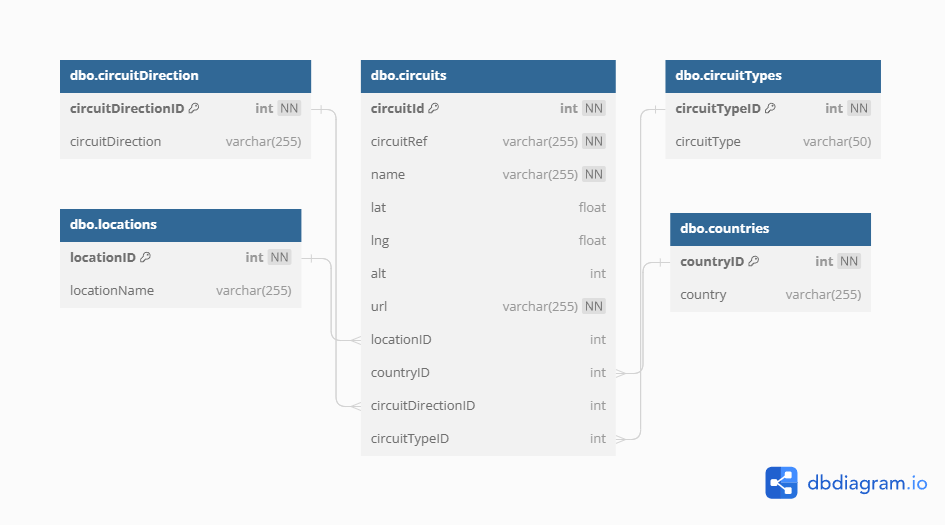
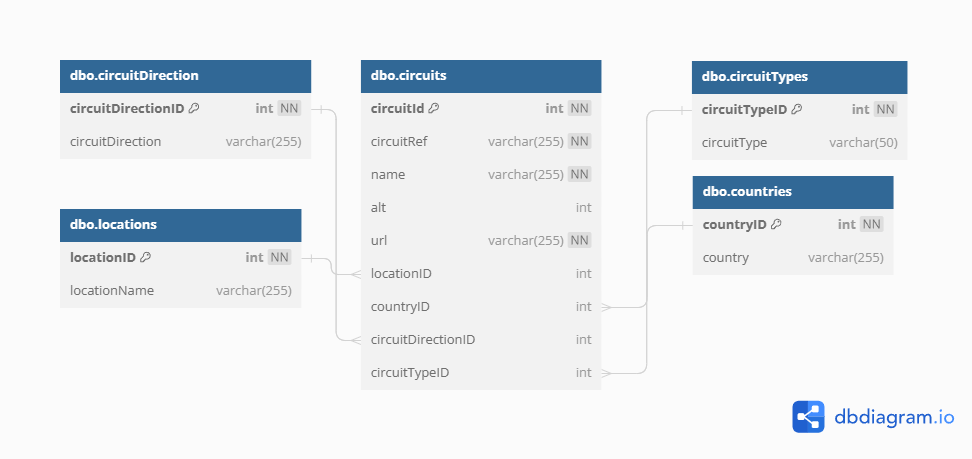
Circuits & Circuit Map amended

diff --git a/docs/tables/circuits.md b/docs/tables/circuits.md
@@ -11,14 +11,12 @@ title: Circuits
 | **circuitId** |  Primary Key | INT | ☐ |  |  | 
 | **circuitRef** |  | VARCHAR(255) | ☐ |  | Unique circuit identifier | 
 | **name** |  | VARCHAR(255) | ☐ |  | Circuit name | 
-| **lat** |  | FLOAT | ☑ |  | Latitude | 
-| **lng** |  | FLOAT | ☑ |  | Longitude | 
 | **alt** |  | INT | ☑ |  | Altitude (metres) | 
 | **url** |  | VARCHAR(255) | ☐ |  | Circuit Wikipedia page | 
-| **locationID** | FK_Circuits_LocationID (dbo.locations locationID) | INT | ☑ |  | Foreign key links to locations | 
-| **countryID** | FK_Circuits_CountryID (dbo.countries countryID) | INT | ☑ |  | Foreign Key link to countries | 
-| **circuitDirectionID** | FK_Circuits_CircuitDirectionID (dbo.circuitDirection circuitDirectionID) | INT | ☑ |  | Foreign key link to circuitDirection | 
-| **circuitTypeID** | FK_Circuits_CircuitTypeID (dbo.circuitTypes circuitTypeID) | INT | ☑ |  | Foreign key link to circuitType | 
+| **locationID** |  | INT | ☑ |  | Foreign key links to locations | 
+| **countryID** |  | INT | ☑ |  | Foreign Key link to countries | 
+| **circuitDirectionID** |  | INT | ☑ |  | Foreign key link to circuitDirection | 
+| **circuitTypeID** |  | INT | ☑ |  | Foreign key link to circuitType | 
 
 ### Table Relationships
 
@@ -33,8 +31,6 @@ SELECT
 	,[name]
 	,[location]
 	,[country]
-	,[lat]
-	,[lng]
 	,[alt]
 	,[url]
 FROM 
@@ -46,7 +42,7 @@ WHERE
 
 ### Example Output
 
-|**circuitId**|**circuitRef**|**name**|**lat**|**lng**|**alt**|**url**|**locationID**|**countryID**|**circuitDirectionID**|**circuitTypeID**|  
-|---|---|---|---|---|---|---|---|---|---|---| 
-|1|albert_park|Albert Park Grand Prix Circuit|-37.8497|144.968|10|http://en.wikipedia.org/wiki/Melbourne_Grand_Prix_Circuit|40|2|1|1| 
-|2|sepang|Sepang International Circuit|2.76083|101.738|18|http://en.wikipedia.org/wiki/Sepang_International_Circuit|31|17|1|2| 
+ |**circuitId**|**circuitRef**|**name**|**alt**|**url**|**locationID**|**countryID**|**circuitDirectionID**|**circuitTypeID**|  
+ |---|---|---|---|---|---|---|---|---|  
+ |1|albert_park|Albert Park Grand Prix Circuit|10|http://en.wikipedia.org/wiki/Melbourne_Grand_Prix_Circuit|40|2|1|1|  
+ |2|sepang|Sepang International Circuit|18|http://en.wikipedia.org/wiki/Sepang_International_Circuit|31|17|1|2| 

diff --git a/docs/tables/circuitMap.md b/docs/tables/circuitMap.md
@@ -1,0 +1,41 @@
+---
+sidebar_position: 1
+pagination_next: null
+pagination_prev: null
+title: Circuit Map
+---
+
+### [dbo.circuitMap]
+| Column name | Key | Data type | Allow NULLs | Default | Description |
+| ------- | ------- | ------- | ------- | ------- | ------- |
+| **circuitId** |  Primary Key | INT | ☐ |  |  | 
+| **latitude** |  | DECIMAL | ☐ |  |  | 
+| **longitudes** |  | DECIMAL | ☐ |  |  | 
+
+### Table Relationships
+
+![Circuits](/img/table-relationships/circuitMap.png)
+
+### Example Query
+
+```sql
+SELECT 
+	c.[circuitId]
+	,c.name
+    ,[latitude]
+    ,[longitudes]
+FROM 
+	[dbo].[circuitMap] cm
+
+RIGHT JOIN [dbo].[circuits] c 
+	ON cm.circuitID = c.circuitId
+```
+
+### Example Output
+
+ |**circuitId**|**latitude**|**longitudes**|**url**|  
+ |---|---|---|---|  
+ |1|-37.849700|144.968000|https://www.openstreetmap.org/#map=15/-37.849700/144.968000|  
+ |2|2.760830|101.738000|https://www.openstreetmap.org/#map=15/2.760830/101.738000| 
+
+ 
